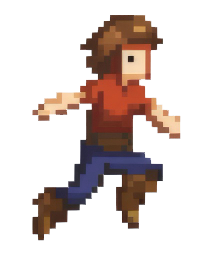
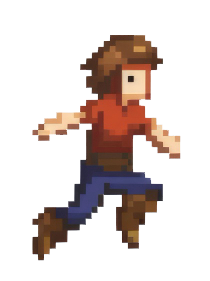
[add]street/[fix]animation

Changed region(s): [[0.1429, 0.0307, 0.8571, 0.8889], [0.1429, 0.8276, 0.3143, 0.9502]]

diff --git a/index.html b/index.html
@@ -20,14 +20,13 @@
 <body>
   <!-- Monto Vue -->
   <div id="app">
-    <div class="container d-flex justify-content-center flex-column ">
+    <div class="container d-flex justify-content-center flex-column  ">
       <h1 class="text-center ">{{ msg }}</h1>
 
       <span class="my-2">Cambia il messaggio da mandare</span>
       <input type="text" class="form-control " v-model="msg">
 
       <!-- <div v-html="immagine" class=""></div> -->
-
       <h3 class="text-center mt-3">{{ msgAnimation }}</h3>
       <div class="container bg-play mt-1 ">
         <div class="text vt323-regular"  :class="{'animation-hide d-none ': isMove}" >Clicka sul personaggio!</div>
@@ -35,9 +34,9 @@
         <div class="baloon" v-html="baloonPixel" :class="{'animation-hide d-none ': isMove}" >
           
         </div>
-        <div class="pg " :class="{'start-move': isStartMove}" v-html="pgW" @click="isStartMove = !isStartMove, isMove = !isMove"></div>
+        <div class="pg " :class="{'start-move': isStartMove}" v-html="pgW" @click="isStartMove = !isStartMove, isMove = !isMove, actionRight(), actionLeft()"></div>
 
-        <button class="btn btn-danger   my-3 text-white " @click="isStartMove = !isStartMove, isMove = !isMove">Start/Reset</button>
+        <button class="btn btn-danger   my-3 text-white " @click="isStartMove = !isStartMove, isMove = !isMove,  actionRight(), actionLeft()">Start/Reset</button>
       </div>
     </div>
   </div>

diff --git a/js/script.js b/js/script.js
@@ -7,17 +7,39 @@ createApp({
       myImg: '',
       msgAnimation: 'Fai click sul personaggio!',
       immagine: '<img src="./assets/img/2151120916.jpg" alt="landscape">',
-      pgW: '<img src="./assets/img/w8.png" alt="pg">',
+      pgW: '<img src="./assets/img/left.png" alt="pg">',
       baloonPixel: '<img src="./assets/img/baloon.png" alt="baloon">',
       isStartMove: false,
-      isMove: false
+      isMove: false,
+      fpsUno: null,
+      fpsDue: null,
     }
   },
 
   methods:{
-    action(){
-      pgW= '';
-
+    actionRight(){
+      console.log('ciao');
+      fpsUno = setInterval(() => {
+        this.pgW = '<img src="./assets/img/right.png" alt="pg">';
+      },1000);
+      setTimeout(() => {
+        // this.pgW = '<img src="./assets/img/w8.png" alt="pg">';
+        clearInterval(fpsUno);
+      }, 10000);
+      
+    },
+    actionLeft(){
+      
+      console.log('ciao2');
+      setTimeout(() => {
+        fpsDue = setInterval(() => {
+          this.pgW = '<img src="./assets/img/left.png" alt="pg">';
+        },1000);
+        setTimeout(() => {
+          this.pgW = '<img src="./assets/img/left.png" alt="pg">';
+          clearInterval(fpsDue);
+        }, 10000);
+      },500);
     }
   },
 }).mount('#app')

diff --git a/assets/css/style.css b/assets/css/style.css
@@ -4,25 +4,22 @@
   width: 1200px;
   height: 600px;
   position: relative;
+  border-bottom: 20px solid darkgreen;
 }
 
 .pg{
-  
-  /* height: ; */
-  
   position: absolute;
-  top: 68%;
+  top: 76%;
   left: 0;
   overflow: hidden;
   transform: translate(-50% -50%);
-  
-  
 }
 
 .start-move{
   width: 20%;
   object-fit: contain;
   animation: movement 10s 0.5s cubic-bezier(0.55, 0.055, 0.675, 0.19);
+  
 }
 
 .pg img{
@@ -32,16 +29,10 @@
 
 @keyframes movement{
   0%{
-
-    left: 0;
-
-    
+    left: 0;   
   }
-  
   25%{
     left: 25%;
-
-
   }
   
   50%{
@@ -51,20 +42,14 @@
   
   75%{
     left: 75%;
-
-
   }
 
   100%{
-    left: 92%;
-
+    left: 92%;   
   }
-  
-  
 }
 
 .baloon{
-  /* display: none; */
   position: absolute;
   top: 53%;
   left: 9%;
@@ -76,7 +61,6 @@
 }
 
 .text{
-  /* display: none; */
   width: 100px;
   z-index: 999;
   font-weight: bold;
@@ -90,13 +74,11 @@
 
 .animation-hide{
   animation: hide 10s 0.5s;
-  /* display: none; */
 }
 
 @keyframes hide{
   0%{
-    display: block;
-    
+    display: block; 
   }
 
   1%{
@@ -111,6 +93,7 @@
   }
 }
 
+/* FONT BALOON */
 .vt323-regular {
   font-family: "VT323", monospace;
   font-weight: 700;
